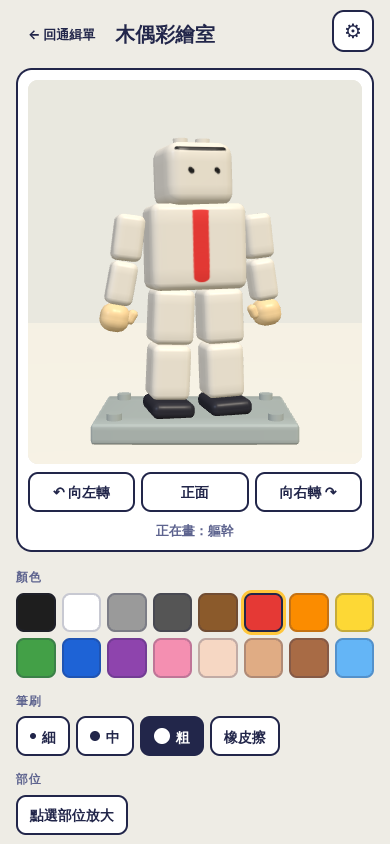
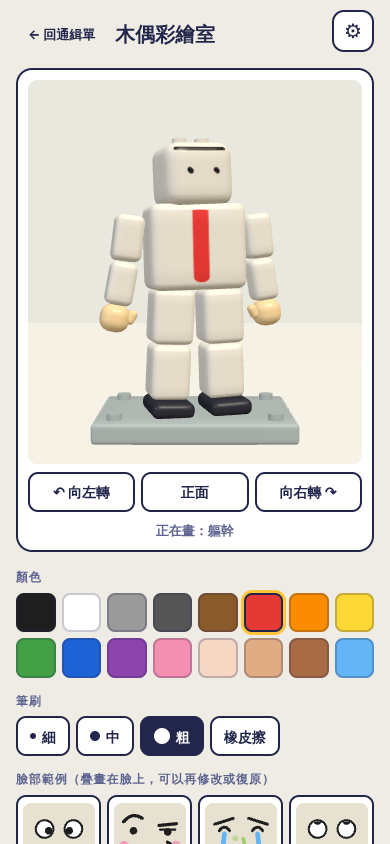
階段 1 追加：彩繪室搞笑臉部範例
Claude-Session: https://claude.ai/code/session_01W9KMAiYuezKnkxaZ7ikoB8

Changed region(s): [[0.0308, 0.8934, 0.9846, 1.0]]

diff --git a/src/game/puppet/facePresets.ts b/src/game/puppet/facePresets.ts
@@ -1,0 +1,174 @@
+/**
+ * 搞笑臉部範例：以頭部正面的實際尺寸（場景單位，原點左上、y 向下）作畫。
+ * 套用時直接畫進玩家的彩繪貼圖，之後可以用筆刷、橡皮擦修改或復原。
+ */
+export type FacePresetId = 'crossEyed' | 'smirk' | 'crying' | 'eyeRoll';
+
+type Draw = (c: CanvasRenderingContext2D, w: number, h: number) => void;
+
+const INK = '#1E1E1E';
+const WHITE = '#FFFFFF';
+
+function line(c: CanvasRenderingContext2D, width: number, color = INK) {
+  c.lineWidth = width;
+  c.strokeStyle = color;
+  c.lineCap = 'round';
+  c.lineJoin = 'round';
+}
+
+function dot(c: CanvasRenderingContext2D, x: number, y: number, r: number, fill: string) {
+  c.beginPath();
+  c.arc(x, y, r, 0, Math.PI * 2);
+  c.fillStyle = fill;
+  c.fill();
+}
+
+function eyeWhite(c: CanvasRenderingContext2D, x: number, y: number, r: number) {
+  dot(c, x, y, r, WHITE);
+  line(c, 0.035);
+  c.beginPath();
+  c.arc(x, y, r, 0, Math.PI * 2);
+  c.stroke();
+}
+
+function blush(c: CanvasRenderingContext2D, w: number, y: number) {
+  dot(c, 0.17, y, 0.08, 'rgba(244,143,177,.8)');
+  dot(c, w - 0.17, y, 0.08, 'rgba(244,143,177,.8)');
+}
+
+const PRESETS: Record<FacePresetId, Draw> = {
+  // 鬥雞眼＋暴牙
+  crossEyed(c, w) {
+    const ex = [w * 0.3, w * 0.7];
+    for (const x of ex) eyeWhite(c, x, 0.44, 0.15);
+    dot(c, ex[0] + 0.07, 0.47, 0.065, INK);
+    dot(c, ex[1] - 0.07, 0.47, 0.065, INK);
+    line(c, 0.045);
+    c.beginPath();
+    c.moveTo(w * 0.3, 0.76);
+    c.quadraticCurveTo(w * 0.5, 0.86, w * 0.7, 0.76);
+    c.stroke();
+    // 兩顆大門牙
+    for (const x of [w * 0.5 - 0.12, w * 0.5]) {
+      c.fillStyle = WHITE;
+      c.fillRect(x, 0.81, 0.12, 0.16);
+      line(c, 0.03);
+      c.strokeRect(x, 0.81, 0.12, 0.16);
+    }
+  },
+  // 得意歪嘴笑＋挑眉
+  smirk(c, w) {
+    line(c, 0.055);
+    c.beginPath();
+    c.moveTo(0.16, 0.32);
+    c.quadraticCurveTo(0.3, 0.14, 0.48, 0.26);
+    c.moveTo(w - 0.46, 0.38);
+    c.lineTo(w - 0.16, 0.35);
+    c.stroke();
+    // 半瞇的眼睛
+    dot(c, 0.33, 0.47, 0.065, INK);
+    dot(c, w - 0.31, 0.49, 0.065, INK);
+    line(c, 0.04);
+    c.beginPath();
+    c.moveTo(w - 0.44, 0.45);
+    c.lineTo(w - 0.18, 0.45);
+    c.stroke();
+    // 歪一邊的嘴
+    line(c, 0.05);
+    c.beginPath();
+    c.moveTo(w * 0.32, 0.82);
+    c.quadraticCurveTo(w * 0.6, 0.86, w * 0.78, 0.68);
+    c.moveTo(w * 0.74, 0.66);
+    c.lineTo(w * 0.82, 0.72);
+    c.stroke();
+    blush(c, w, 0.72);
+  },
+  // 哭哭臉＋鼻涕
+  crying(c, w) {
+    line(c, 0.05);
+    c.beginPath();
+    c.moveTo(0.16, 0.36);
+    c.lineTo(0.48, 0.26);
+    c.moveTo(w - 0.16, 0.36);
+    c.lineTo(w - 0.48, 0.26);
+    c.stroke();
+    // 緊閉的眼
+    for (const x of [0.33, w - 0.33]) {
+      c.beginPath();
+      c.arc(x, 0.5, 0.09, Math.PI * 1.1, Math.PI * 1.9);
+      c.stroke();
+    }
+    // 兩行眼淚
+    for (const x of [0.33, w - 0.33]) {
+      line(c, 0.08, '#64B5F6');
+      c.beginPath();
+      c.moveTo(x, 0.52);
+      c.quadraticCurveTo(x + (x < w / 2 ? -0.05 : 0.05), 0.8, x, 1.1);
+      c.stroke();
+    }
+    // 張開的哭嘴
+    c.beginPath();
+    c.moveTo(w * 0.36, 0.92);
+    c.quadraticCurveTo(w * 0.5, 0.66, w * 0.64, 0.92);
+    c.closePath();
+    c.fillStyle = '#5A2230';
+    c.fill();
+    line(c, 0.035);
+    c.stroke();
+    // 鼻涕
+    line(c, 0.06, '#9CCC65');
+    c.beginPath();
+    c.moveTo(w * 0.53, 0.6);
+    c.quadraticCurveTo(w * 0.56, 0.68, w * 0.54, 0.74);
+    c.stroke();
+    dot(c, w * 0.55, 0.77, 0.045, '#9CCC65');
+    dot(c, w * 0.42, 0.6, 0.05, 'rgba(156,204,101,.55)');
+  },
+  // 翻白眼＋吐舌頭
+  eyeRoll(c, w) {
+    for (const x of [w * 0.3, w * 0.7]) {
+      eyeWhite(c, x, 0.44, 0.15);
+      // 眼珠翻到最上面，只露一點點
+      c.save();
+      c.beginPath();
+      c.arc(x, 0.44, 0.13, 0, Math.PI * 2);
+      c.clip();
+      dot(c, x, 0.3, 0.07, INK);
+      c.restore();
+    }
+    line(c, 0.045);
+    c.beginPath();
+    c.moveTo(w * 0.32, 0.76);
+    c.lineTo(w * 0.68, 0.76);
+    c.stroke();
+    // 舌頭
+    c.beginPath();
+    c.moveTo(w * 0.46, 0.76);
+    c.lineTo(w * 0.46, 0.9);
+    c.arc(w * 0.53, 0.9, w * 0.07, Math.PI, 0, true);
+    c.lineTo(w * 0.6, 0.76);
+    c.closePath();
+    c.fillStyle = '#F06A86';
+    c.fill();
+    line(c, 0.03);
+    c.stroke();
+    line(c, 0.02, '#B8405A');
+    c.beginPath();
+    c.moveTo(w * 0.53, 0.78);
+    c.lineTo(w * 0.53, 0.9);
+    c.stroke();
+  },
+};
+
+export const FACE_PRESETS: { id: FacePresetId; label: string }[] = [
+  { id: 'crossEyed', label: '鬥雞眼暴牙' },
+  { id: 'smirk', label: '歪嘴挑眉' },
+  { id: 'crying', label: '哭哭鼻涕' },
+  { id: 'eyeRoll', label: '翻白眼吐舌' },
+];
+
+export function drawFacePreset(id: FacePresetId, c: CanvasRenderingContext2D, w: number, h: number) {
+  c.save();
+  PRESETS[id](c, w, h);
+  c.restore();
+}

diff --git a/src/screens/PaintScreen.tsx b/src/screens/PaintScreen.tsx
@@ -9,6 +9,8 @@ import { dispatch } from '../state/app';
 import { enabledB, useSession } from '../state/session';
 import { resetBubbleScale } from '../ui/bubble';
 import { NoWebGL } from '../ui/NoWebGL';
+import { FacePresetButton } from '../ui/FacePresetButton';
+import { FACE_PRESETS } from '../game/puppet/facePresets';
 
 type Brush = (typeof PAINT.brushes)[number]['id'];
 
@@ -123,6 +125,24 @@ export function PaintScreen() {
               <button type="button" className="btn" aria-pressed={eraser} onClick={() => setEraser((v) => !v)}>
                 橡皮擦
               </button>
+            </div>
+          </div>
+          <div className="tool-group">
+            <span className="tool-label">臉部範例（疊畫在臉上，可以再修改或復原）</span>
+            <div className="face-row">
+              {FACE_PRESETS.map((f) => (
+                <FacePresetButton
+                  key={f.id}
+                  id={f.id}
+                  label={f.label}
+                  disabled={finishing}
+                  onPick={(id) => {
+                    paint.applyFace(id);
+                    ctrl.current?.faceFront();
+                    setStatus(`畫上了：${f.label}`);
+                  }}
+                />
+              ))}
             </div>
           </div>
           <div className="tool-group">

diff --git a/src/ui/FacePresetButton.tsx b/src/ui/FacePresetButton.tsx
@@ -1,0 +1,37 @@
+import { useEffect, useRef } from 'react';
+import { PART_DEFS } from '../game/puppet/parts';
+import { drawFacePreset, type FacePresetId } from '../game/puppet/facePresets';
+import { PUPPET } from '../config/puppet.config';
+
+interface Props {
+  id: FacePresetId;
+  label: string;
+  disabled?: boolean;
+  onPick: (id: FacePresetId) => void;
+}
+
+const PX = 72;
+
+/** 臉部範例按鈕：用同一套畫法畫出小預覽。 */
+export function FacePresetButton({ id, label, disabled, onPick }: Props) {
+  const ref = useRef<HTMLCanvasElement>(null);
+  useEffect(() => {
+    const cv = ref.current;
+    const c = cv?.getContext('2d');
+    if (!cv || !c) return;
+    const [w, h] = PART_DEFS.head.size;
+    const dpr = Math.min(2, window.devicePixelRatio || 1);
+    cv.width = Math.round(PX * dpr);
+    cv.height = Math.round(((PX * h) / w) * dpr);
+    c.fillStyle = PUPPET.baseColor;
+    c.fillRect(0, 0, cv.width, cv.height);
+    c.scale(cv.width / w, cv.height / h);
+    drawFacePreset(id, c, w, h);
+  }, [id]);
+  return (
+    <button type="button" className="face-btn" onClick={() => onPick(id)} disabled={disabled} aria-label={`套用臉部範例：${label}`}>
+      <canvas ref={ref} aria-hidden="true" />
+      <span>{label}</span>
+    </button>
+  );
+}

diff --git a/tests/e2e/flow.spec.ts b/tests/e2e/flow.spec.ts
@@ -134,3 +134,24 @@ test('裝置不支援 WebGL 時顯示說明文字', async ({ page }) => {
   await page.getByTestId('go-duel').click();
   await expect(page.getByText('這台裝置無法顯示 3D 畫面')).toBeVisible();
 });
+
+test('臉部範例：疊畫在頭部正面，可以復原', async ({ page }) => {
+  const errors = watchConsole(page);
+  await fillWanted(page);
+  const b = bt(page);
+  // 先自己畫一筆
+  await drag(page, (await b.point('head', 4, 0.1, 0.1))!, (await b.point('head', 4, 0.9, 0.1))!);
+  const mine = await b.painted('head', 4);
+  expect(mine).toBeGreaterThan(100);
+  await page.getByRole('button', { name: '套用臉部範例：鬥雞眼暴牙' }).click();
+  const withFace = await b.painted('head', 4);
+  expect(withFace).toBeGreaterThan(mine + 2000);
+  // 疊在原本的畫上：原本的筆畫還在（復原後回到只有原本那一筆）
+  await page.getByRole('button', { name: '復原', exact: true }).click();
+  expect(await b.painted('head', 4)).toBe(mine);
+  await page.getByRole('button', { name: '重做', exact: true }).click();
+  expect(await b.painted('head', 4)).toBe(withFace);
+  // 其他面不受影響
+  for (const f of [0, 1, 2, 3, 5]) expect(await b.painted('head', f)).toBe(0);
+  expect(errors).toEqual([]);
+});

diff --git a/src/game/puppet/paintSurface.ts b/src/game/puppet/paintSurface.ts
@@ -3,7 +3,8 @@ import { PAINT } from '../../config/paint.config';
 import { PUPPET } from '../../config/puppet.config';
 import { History } from './history';
 import { PAINT_PARTS, PART_DEFS, type PaintPartId } from './parts';
-import { atlasHeight, atlasWidth, cellOrigin, DEFAULT_LAYOUT, faceDims, FACES, type Face, type FacePoint } from './faces';
+import { atlasHeight, atlasWidth, cellOrigin, DEFAULT_LAYOUT, FACE_FRONT, faceDims, FACES, type Face, type FacePoint } from './faces';
+import { drawFacePreset, type FacePresetId } from './facePresets';
 
 export interface Surface {
   part: PaintPartId;
@@ -142,6 +143,15 @@ export class PaintStore {
       c.lineTo(b.x + 0.0001, b.y);
       c.stroke();
     });
+  }
+
+  /** 套用臉部範例：疊畫在頭部正面，可復原（算 1 步）。 */
+  applyFace(id: FacePresetId) {
+    const key: FaceKey = `head:${FACE_FRONT}`;
+    this.history.record([key]);
+    this.touched.add(key);
+    this.withFace('head', FACE_FRONT, (c, w, h) => drawFacePreset(id, c, w, h));
+    this.emit();
   }
 
   /** 清空全部彩繪（可復原，算 1 步）。 */

diff --git a/src/styles.css b/src/styles.css
@@ -205,6 +205,10 @@ button { cursor: pointer; }
 .swatch { aspect-ratio: 1; border-radius: 8px; border: 2px solid rgba(34, 38, 74, 0.25); padding: 0; min-width: 0; }
 .swatch[aria-pressed='true'] { border-color: var(--ink); box-shadow: 0 0 0 3px var(--sun); }
 .btn-row { display: flex; flex-wrap: wrap; gap: 6px; align-items: center; }
+.face-row { display: grid; grid-template-columns: repeat(4, minmax(0, 1fr)); gap: 6px; }
+.face-btn { display: flex; flex-direction: column; align-items: center; gap: 4px; border: 2px solid var(--ink); background: var(--card); border-radius: 10px; padding: 6px 4px; font-size: 12px; font-weight: 800; min-width: 0; touch-action: manipulation; }
+.face-btn canvas { width: 100%; max-width: 72px; height: auto; aspect-ratio: 1.22 / 1.1; border-radius: 8px; display: block; }
+.face-btn:disabled { opacity: 0.4; cursor: default; }
 .zoom-name { font-size: 13px; font-weight: 700; color: var(--muted); }
 .confirm { display: flex; flex-wrap: wrap; align-items: center; gap: 6px; font-size: 13px; font-weight: 700; color: var(--tomato); }
 

diff --git a/PLAN.md b/PLAN.md
@@ -213,4 +213,5 @@ interface HitEvent { hitId: HitId; moveId: MoveId; segment: number; at: number; 
 ## 6. 已確認的決策（使用者回覆）
 - 階段 1 擂台：「擂台預覽」畫面＋測試按鈕（每顆都有作用），階段 2 換成正式戰鬥。
 - 對話泡泡空間不足：寬度縮到側邊可用寬度並自動換行；仍放不下才縮小字級；絕不蓋住身體、不放頭頂。
-- 版本保存：每階段 commit 後推到 https://github.com/lulukiwkiw-prog/beat-the-jerk（目前推送權限被拒，待使用者授權 Claude GitHub App）。
+- 版本保存：每階段 commit 後推到 https://github.com/lulukiwkiw-prog/beat-the-jerk。
+- 彩繪室加入 4 款搞笑臉部範例（鬥雞眼暴牙、歪嘴挑眉、哭哭鼻涕、翻白眼吐舌）：直接疊畫進頭部正面的彩繪貼圖，可再用筆刷修改、可復原（使用者在階段 1 後追加，SPEC 未規定）。
